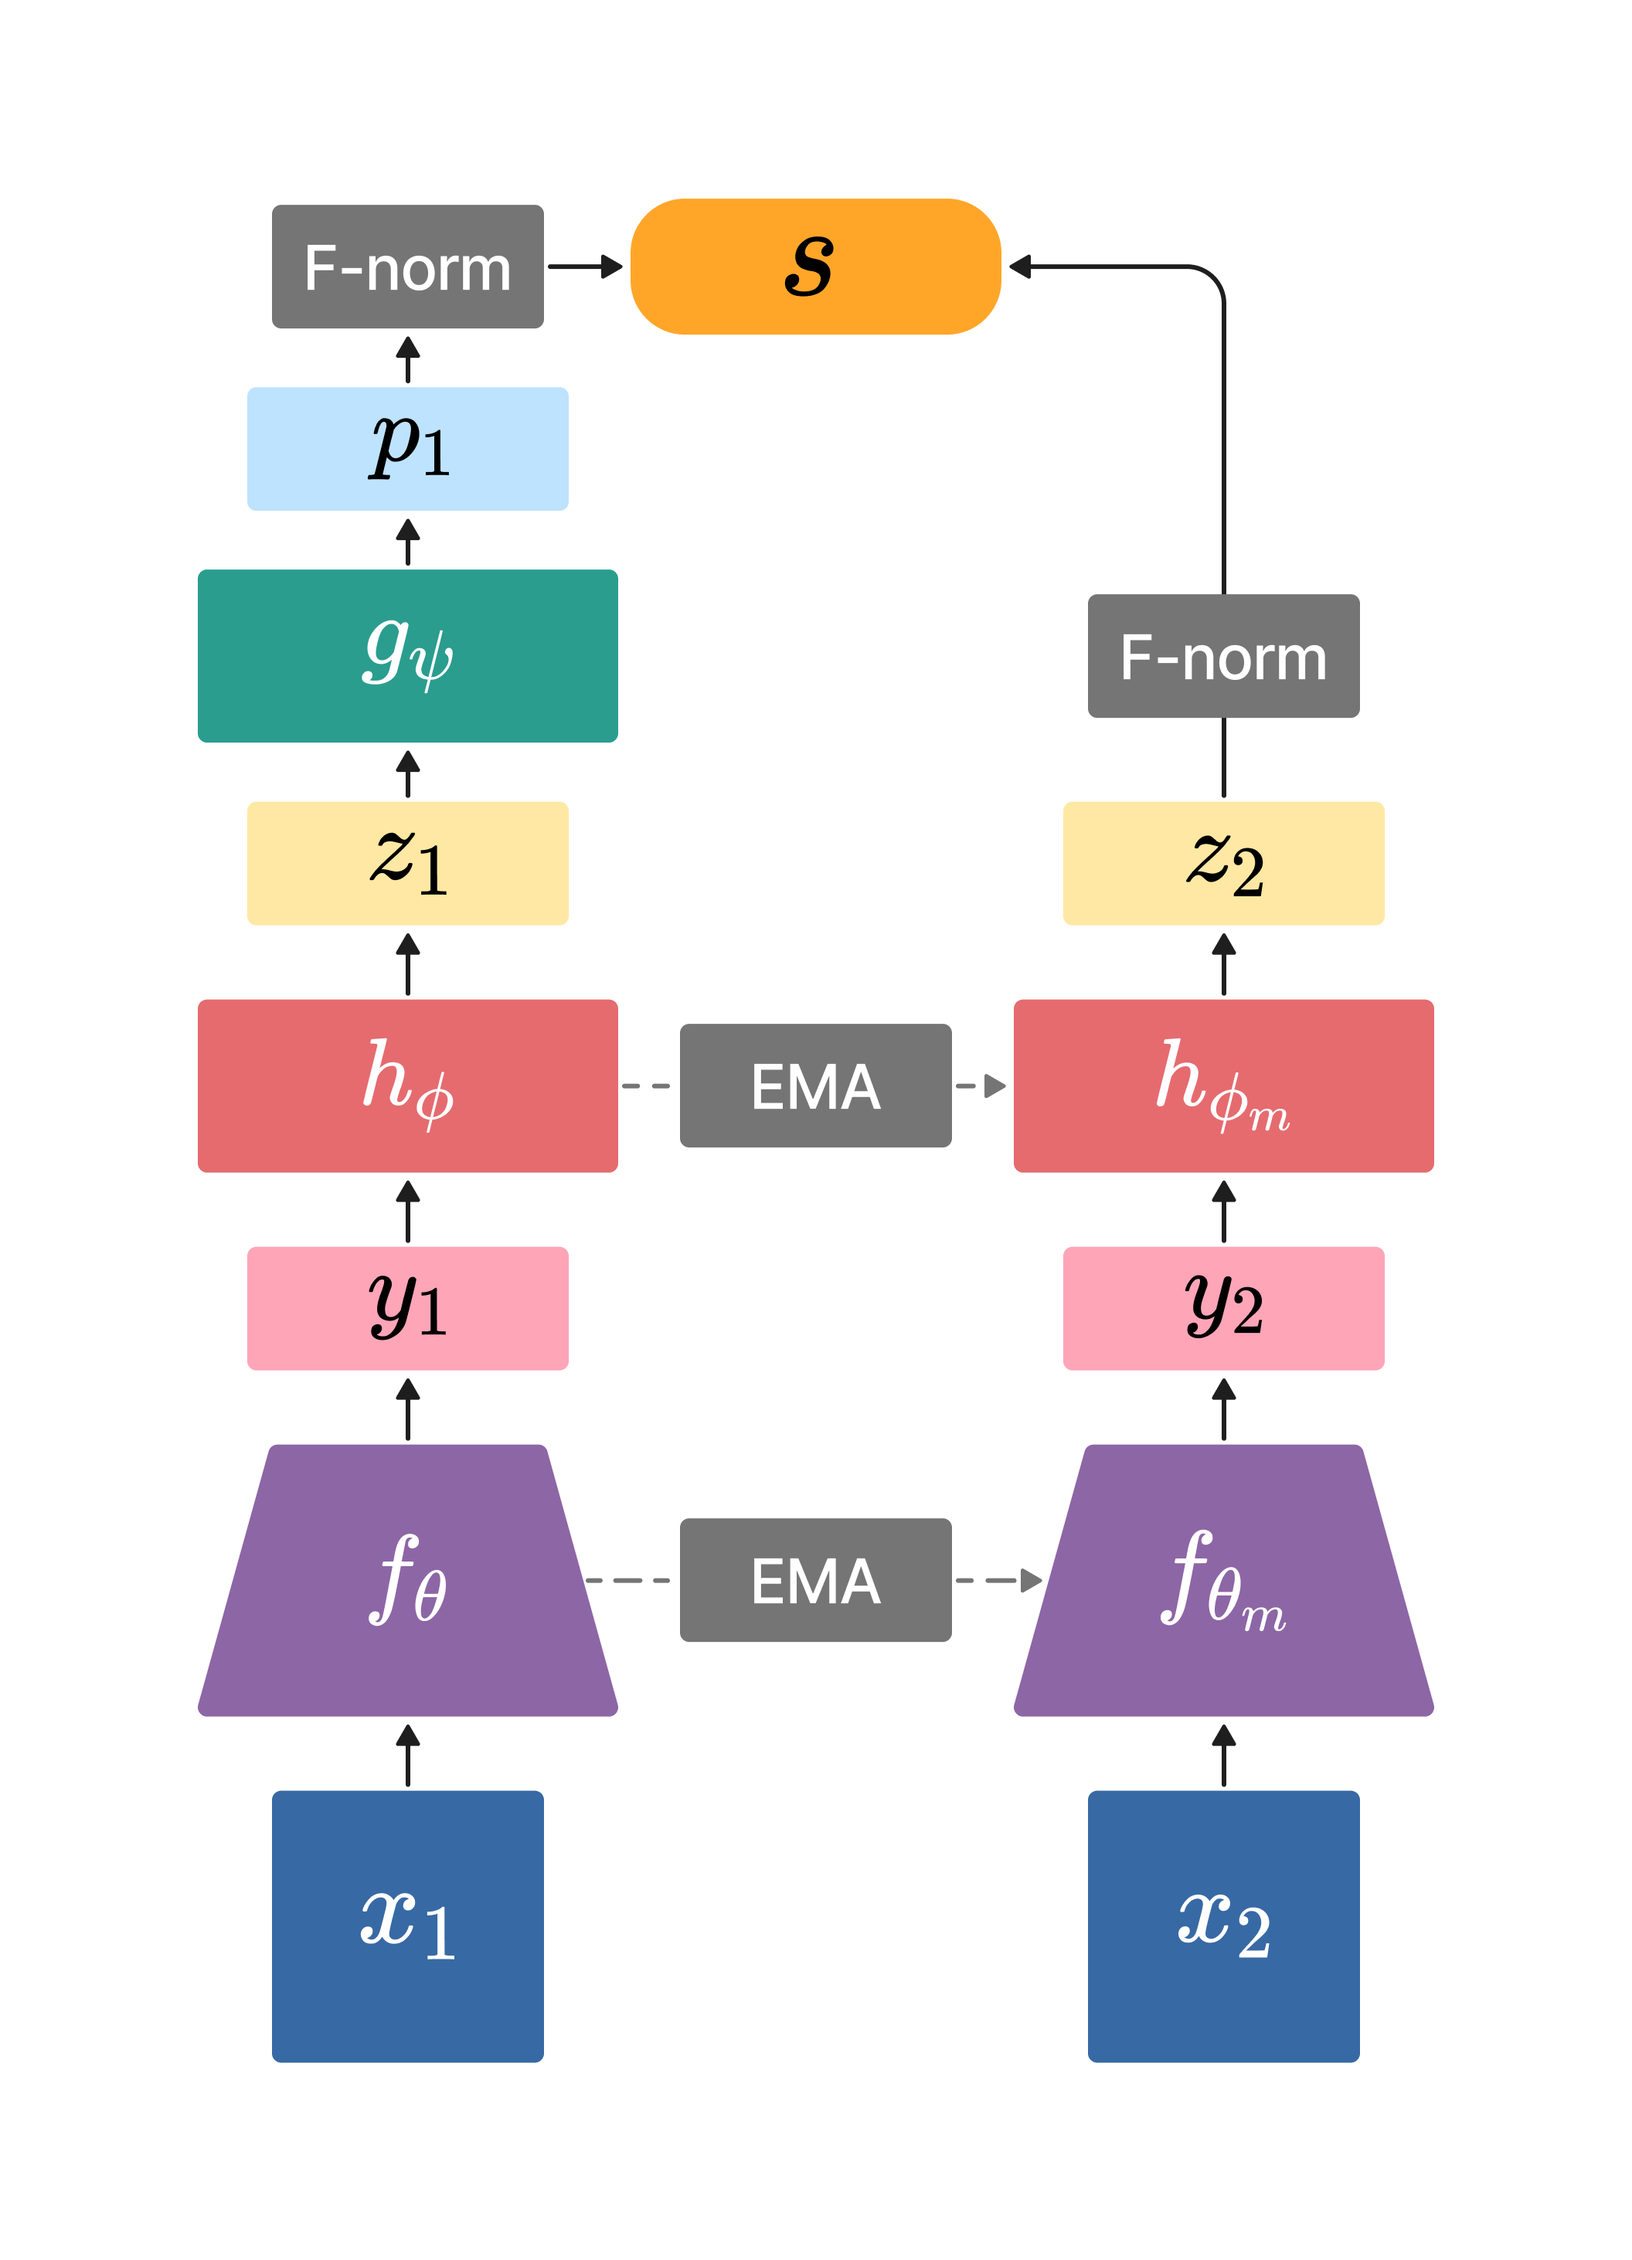
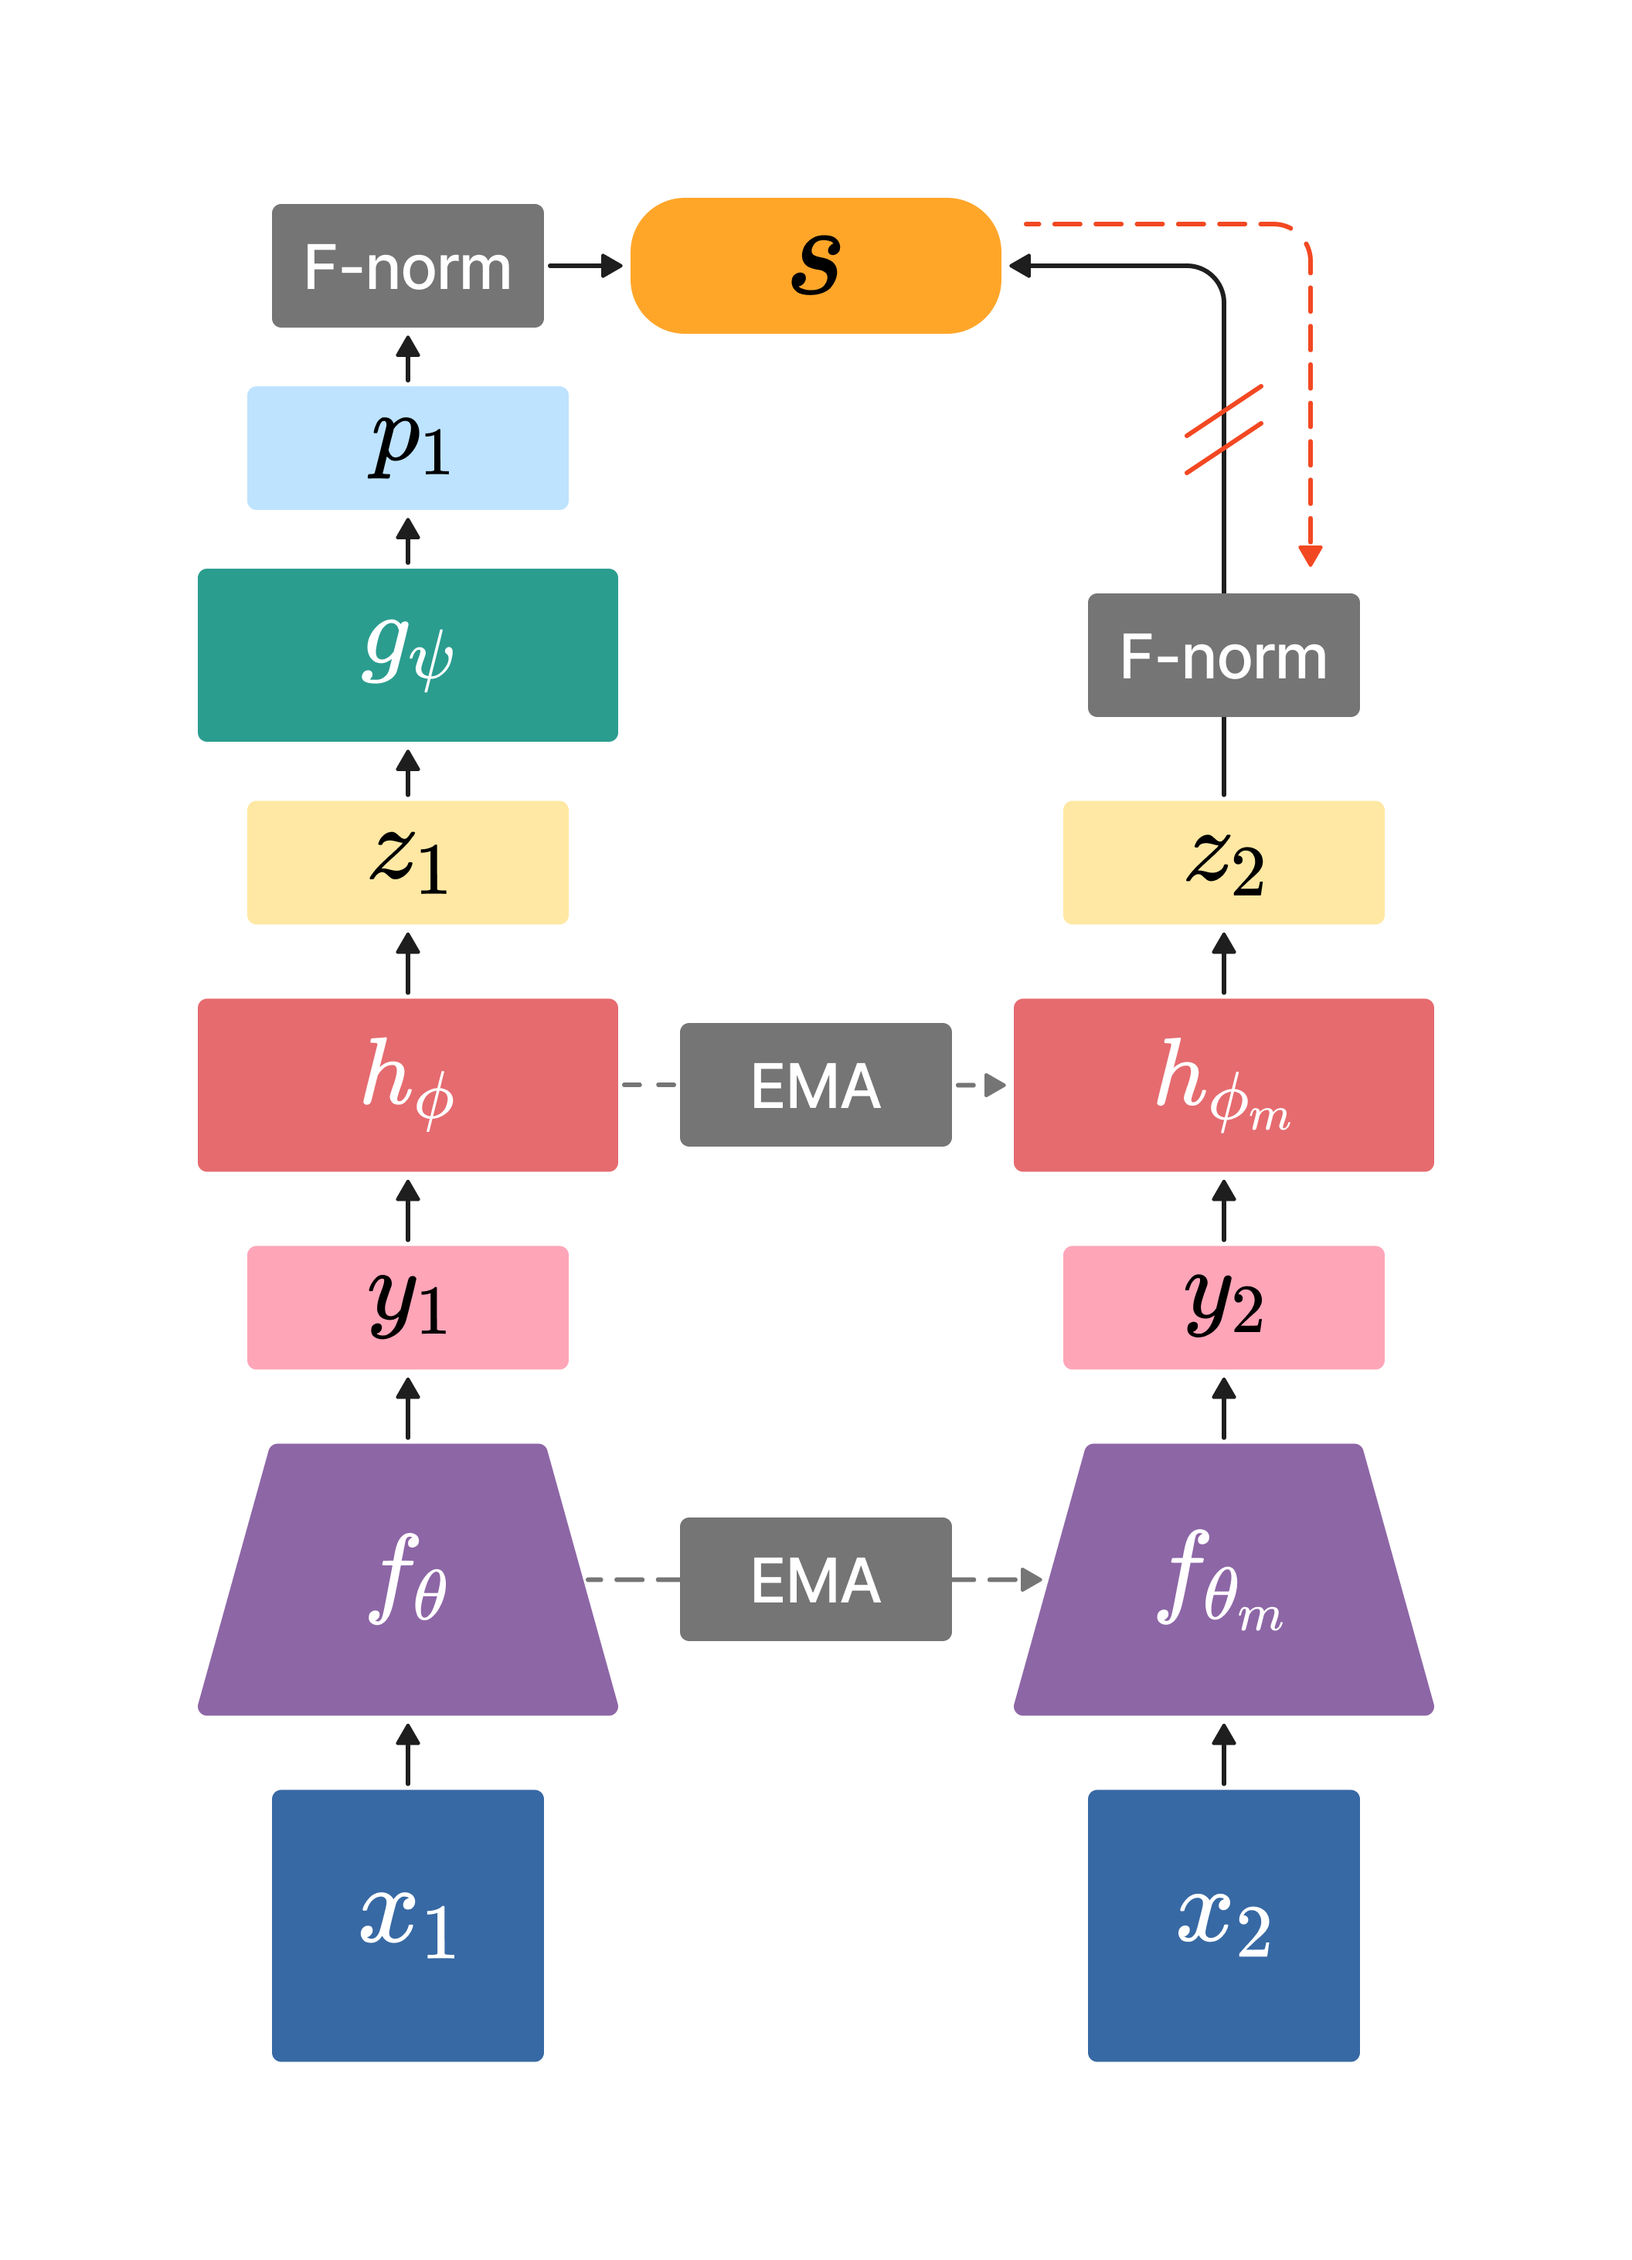
Fix BYOL and SimSiam diagrams
Also updated benchmark scripts to use default 96x96 for low-res crops instead of 112x112

diff --git a/scripts/WM811k_benchmark.py b/scripts/WM811k_benchmark.py
@@ -131,26 +131,16 @@ dataset_train_supervised = LightlyDataset.from_torch_dataset(
 # e.g. SimCLR, MoCo, BYOL, Barlow Twins, DCLW, SimSiam
 collate_fn = WaferImageCollateFunction(
     img_size=[input_size, input_size],
-    crop=True,
     normalize=True,
 )
 
 # DINO, FastSiam, MSN, MAE, SwaV all need their own collate functions
-dino_collate_fn = WaferDINOCOllateFunction(
-    global_crop_size=input_size, local_crop_size=input_size // 2
-)
-
-fastsiam_collate_fn = WaferFastSiamCollateFunction([input_size, input_size], crop=True)
-
-msn_collate_fn = WaferMSNCollateFunction(
-    random_size=input_size, focal_size=input_size // 2
-)
-
+dino_collate_fn = WaferDINOCOllateFunction()
+fastsiam_collate_fn = WaferFastSiamCollateFunction([input_size, input_size])
+msn_collate_fn = WaferMSNCollateFunction()
 mae_collate_fn = WaferMAECollateFunction()
-
-mae2_collate_fn = WaferMAECollateFunction2(crop=True)
-
-swav_collate_fn = WaferSwaVCollateFunction(crop_sizes=[input_size, input_size // 2])
+mae2_collate_fn = WaferMAECollateFunction2()
+swav_collate_fn = WaferSwaVCollateFunction()
 
 
 def get_data_loaders(batch_size: int, model):
